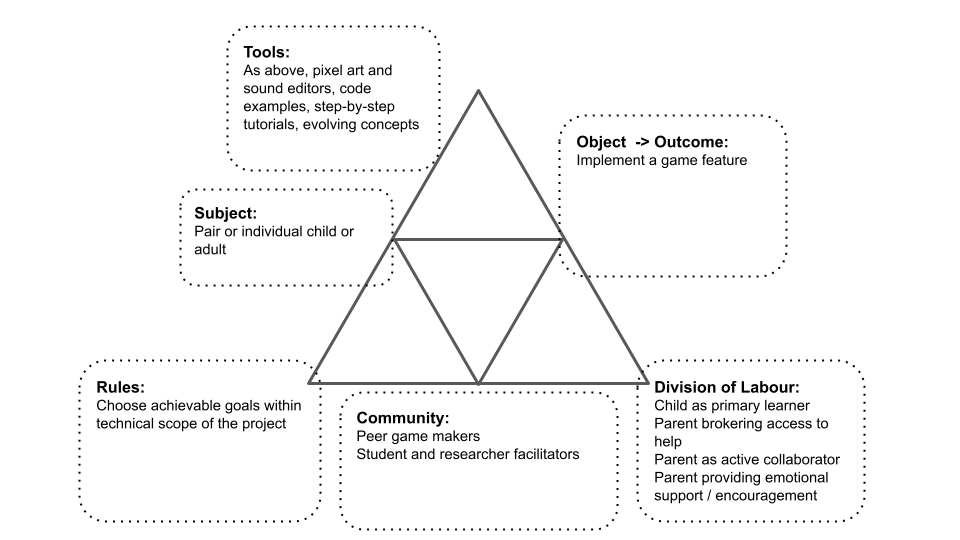
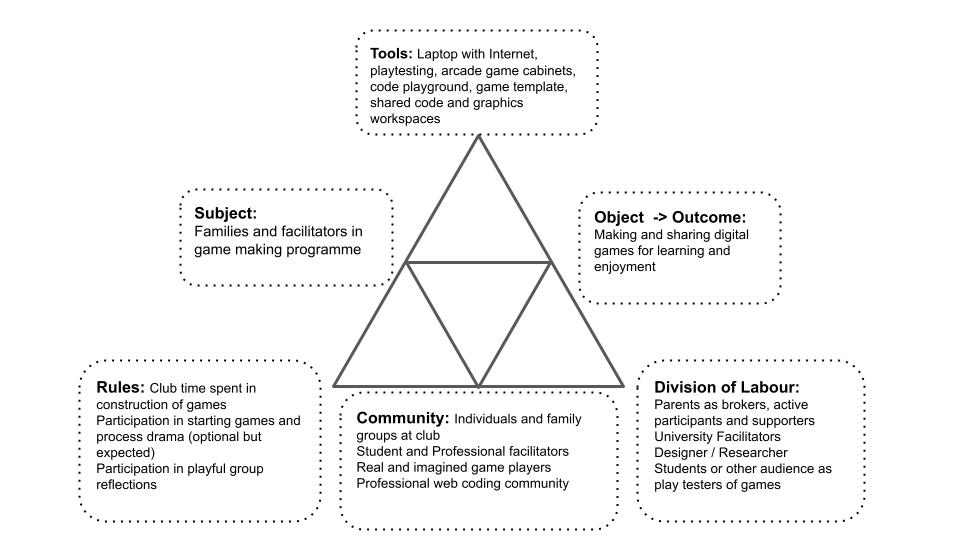
integrating cathy's notes

diff --git a/_posts/thesis_chapters/2024-3-4-Design.md b/_posts/thesis_chapters/2024-3-4-Design.md
@@ -16,6 +16,9 @@ title: 4. Exploration of the Formative Learning Design Process
 2. How can learners build agency in an evolving community of game makers?
 3. How can game design patterns support the development of coding practices with novices?
 
+## A note on style
+
+This chapter contains a large number of headings in draft form. These will be replaced with introductory sentences when structure is stable.
 
 
 <!-- ## Notes on structure -->
@@ -36,6 +39,7 @@ Moved impact of software tools here - and overall on templated approach on a mic
 <!-- - exposes motivations, tactics for and barriers to undertaking activity this domain from interviews with peer practitioners (supplementing the literature review) -->
 
 Due to the novel nature of the learning design, a detailed outline of the specifics of the participants experience of the design helps readers situate  the findings of the following two chapters.
+<!-- NOTE  - CHAPTERS ON WHAT? -->
 
 This chapter contains a highly granular level of detail which is both helps situate the findings of the next chapter and is important, along with resources highlighted in this chapter footnotes, to allow the design by other practitioners and researchers in this area. The motivation here is that the processes of this research should be understandable and replicable by other practioners and researchers. I am guided in this respect by the lineage of research of constructionism, and in particular the sharing of practice between researchers and teachers regarding the use of LOGO. A seminal example of this practice is Papert and Solomon's publication Twenty things to do with a computer which is replete with code examples and diagrams of their output on the screen [-@papert_twenty_1971]. Many such examples exist from Papert in published memos and grass-roots collaborations with teachers [^4].
 
@@ -148,7 +152,9 @@ https://docs.google.com/document/d/1vYeVxYaRMTWPDOHwC4DEGYAkGPRIDX7wLiz0l8b7LWc/
 
 ### Description of levels of activity illustrated using the vignette
 
-The following sections outline different scopes of activity, at times using detail from the vignette above, to further describe the overall process and to introduce tensions between system elements which are explored in this chapter. I use concepts from activity theory to describe elements of the activity system and identify intersecting or nested systems of activity and their differing goals.
+In line with the process outlined in chapter 3, the following sections outline different scopes of activity, at times using detail from the vignette above, to describe the activity of participants and to introduce tensions between system elements which are explored in this chapter.
+
+<!-- I use concepts from activity theory to describe elements of the activity system and identify intersecting or nested systems of activity and their differing goals. -->
 
 <!-- The following sections describe of the vignette above focusing on the overall activity and its place within evolution of learning design.
 Subsequent analysis of the identified activity systems allows both the researcher and practitioner to identifying existing and emerging tensions and to thus observe (spontaneous) or plan (designed) responses. While this chapter focuses primarily on the tools and resources, future chapter also draw on this framework for wider analysis. -->
@@ -162,7 +168,11 @@ Subsequent analysis of the identified activity systems allows both the researche
 
 #### Environmental factors and objectives
 
-As explored in the literature review, there are several wider objectives of the type creative design activity involved in this research. Aligning with my experiences, I have selected several important streams and represented them in an illustration 4.x  below. These include: research goals on the part of the researcher/ participant; desire to create a useful learning experience on the part of student helpers; learning computing skills and concepts as a home education project; participating with other home educators in a creative environment and thus building team and communication skills; and finally a broad aim of fun on the part of the children participants.
+In line with socio-cultural approaches is it important to situate the context of the learning environment within wider systems of activity. I have selected several relevant systems and represented them in an illustration 4.x  below.
+
+<!-- These include: research goals on the part of the researcher/ participant; desire to create a useful learning experience on the part of student helpers; learning computing skills and concepts as a home education project; participating with other home educators in a creative environment and thus building team and communication skills; and finally a broad aim of fun on the part of the children participants. -->
+
+<!-- NOTE THERE IS A MISMATCH BETWEEN DIAGRAM AND THE OBJECTIVES - CHOOSE ONE - AND MAKE IT CLEAR -->
 
 ![Illustration 4.x - Broad Environmental Activity Systems  ](./Pictures/At_dia_3_v1.png){width=95%}
 
@@ -186,7 +196,10 @@ Table 4.x.  Tools used in larger-scoped objective involving the wider community 
 
 #### Larger objective - Making games for an audience
 
-The shared objective of one activity system is to make entertaining and educational games for an audience to play.
+
+Moving beyond wider activity systems, the overarching activity system of the game making programme that the participants signed up for has a shared objective of making entertaining and educational games for an audience to play.
+
+<!-- NOTE - what is the difference between objective and outcome -->
 
 <!-- Insert an AT diagram from here - https://docs.google.com/presentation/d/1vR6dzFG6qXIdpB_-s6PbCePiB87qTs6YAXCljxNcb5Y/edit#slide=id.g57b5e8e9ad_0_0 -->
 
